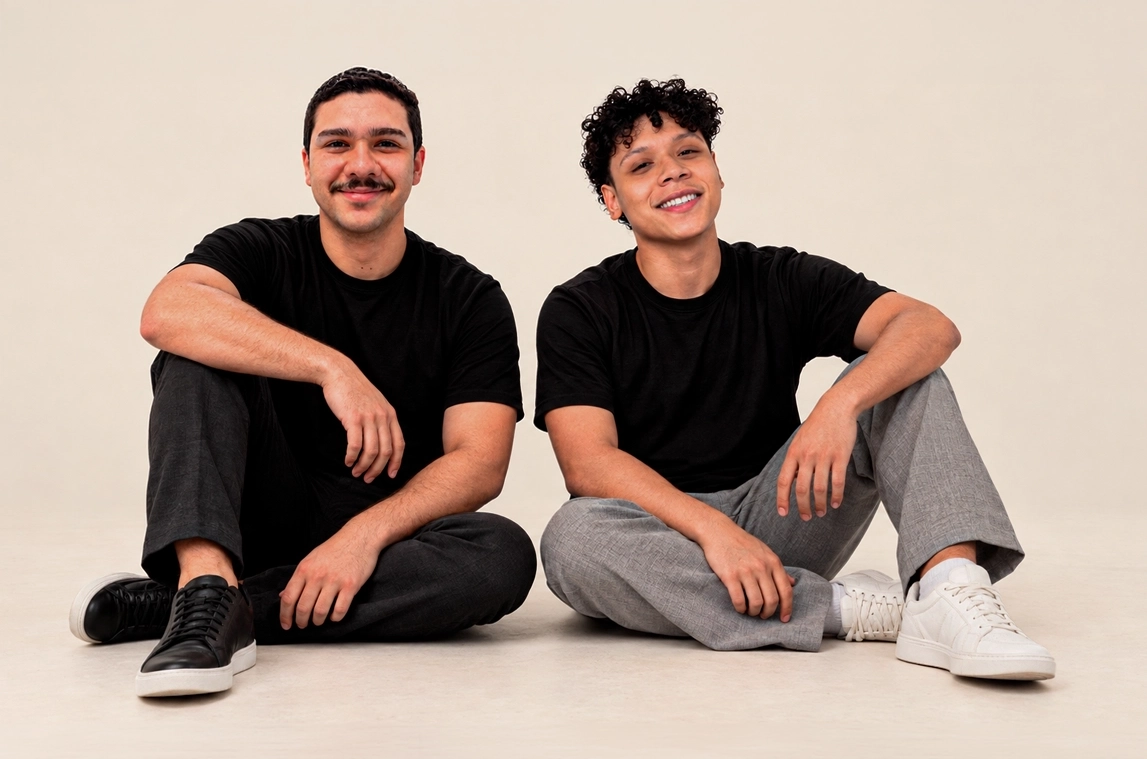
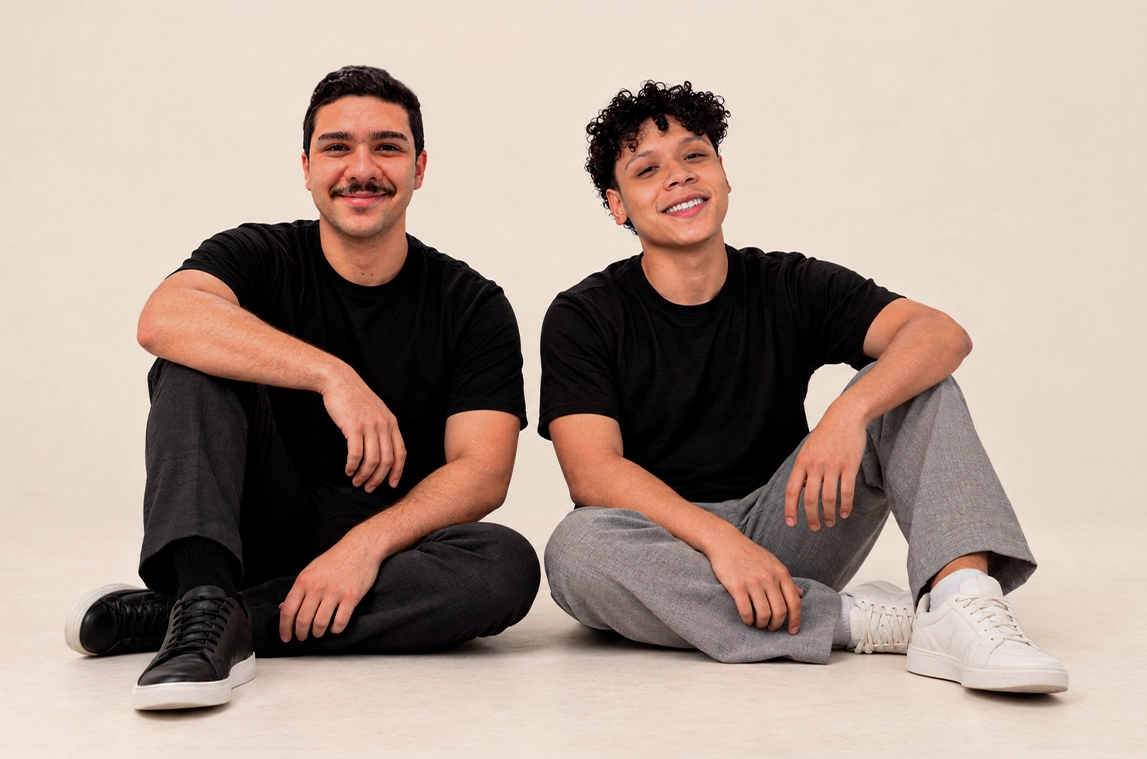
style: adjust scroll margin in index.css and improve scroll behavior in ScrollManager; update contact links in navigation constants

diff --git a/src/constants/navigation.ts b/src/constants/navigation.ts
@@ -18,21 +18,20 @@ export const footerNavColumns = [
   {
     title: "ENCONTRA",
     links: [
-      { label: "INSTAGRAM", href: "https://instagram.com" },
-      { label: "FACEBOOK", href: "https://facebook.com" },
-      { label: "TIKTOK", href: "https://tiktok.com" },
+      { label: "INSTAGRAM", href: "https://www.instagram.com/oviraestudio" },
+      { label: "TIKTOK", href: "https://www.tiktok.com/@oviraestudio" },
     ],
   },
   {
     title: "CONVERSA",
     links: [
-      { label: "WHATSAPP", href: "https://wa.me/5500000000000" },
-      { label: "E-MAIL", href: "mailto:ola@viraestudio.com.br" },
+      { label: "(11) 98334-2471", href: "https://wa.me/5511983342471" },
+      { label: "oviraestudio@gmail.com", href: "mailto:oviraestudio@gmail.com" },
     ],
   },
 ] as const
 
 export const ctaLink = {
   label: "FAZER VIRAR",
-  href: "https://wa.me/5500000000000",
+  href: "https://wa.me/5511983342471",
 } as const

diff --git a/src/components/manifesto-section.tsx b/src/components/manifesto-section.tsx
@@ -22,8 +22,7 @@ export function ManifestoSection() {
             </RevealItem>
             <RevealItem>
               <p className="max-w-xl text-balance text-base leading-relaxed text-black sm:text-lg">
-                Aqui no VIRA, a gente acredita que negócio pequeno não precisa
-                parecer pequeno. Tem muita gente fazendo acontecer todos os dias,
+                Tem muita gente fazendo acontecer todos os dias,
                 mas ainda com uma marca improvisada, um Instagram que não
                 acompanha a qualidade do negócio ou um site que nunca saiu do
                 papel.

diff --git a/src/main.tsx b/src/main.tsx
@@ -20,8 +20,12 @@ function ScrollManager() {
     }
 
     const id = decodeURIComponent(hash.slice(1))
+    const reduceMotion = window.matchMedia(
+      "(prefers-reduced-motion: reduce)",
+    ).matches
+
     document.getElementById(id)?.scrollIntoView({
-      behavior: "instant",
+      behavior: reduceMotion ? "instant" : "smooth",
       block: "start",
     })
   }, [pathname, hash])

diff --git a/src/index.css b/src/index.css
@@ -150,6 +150,6 @@
   }
 
   section[id] {
-    scroll-margin-top: calc(var(--minimal-menu-height) + 0.5rem);
+    scroll-margin-top: calc(var(--minimal-menu-height) - 1.5rem);
   }
 }
